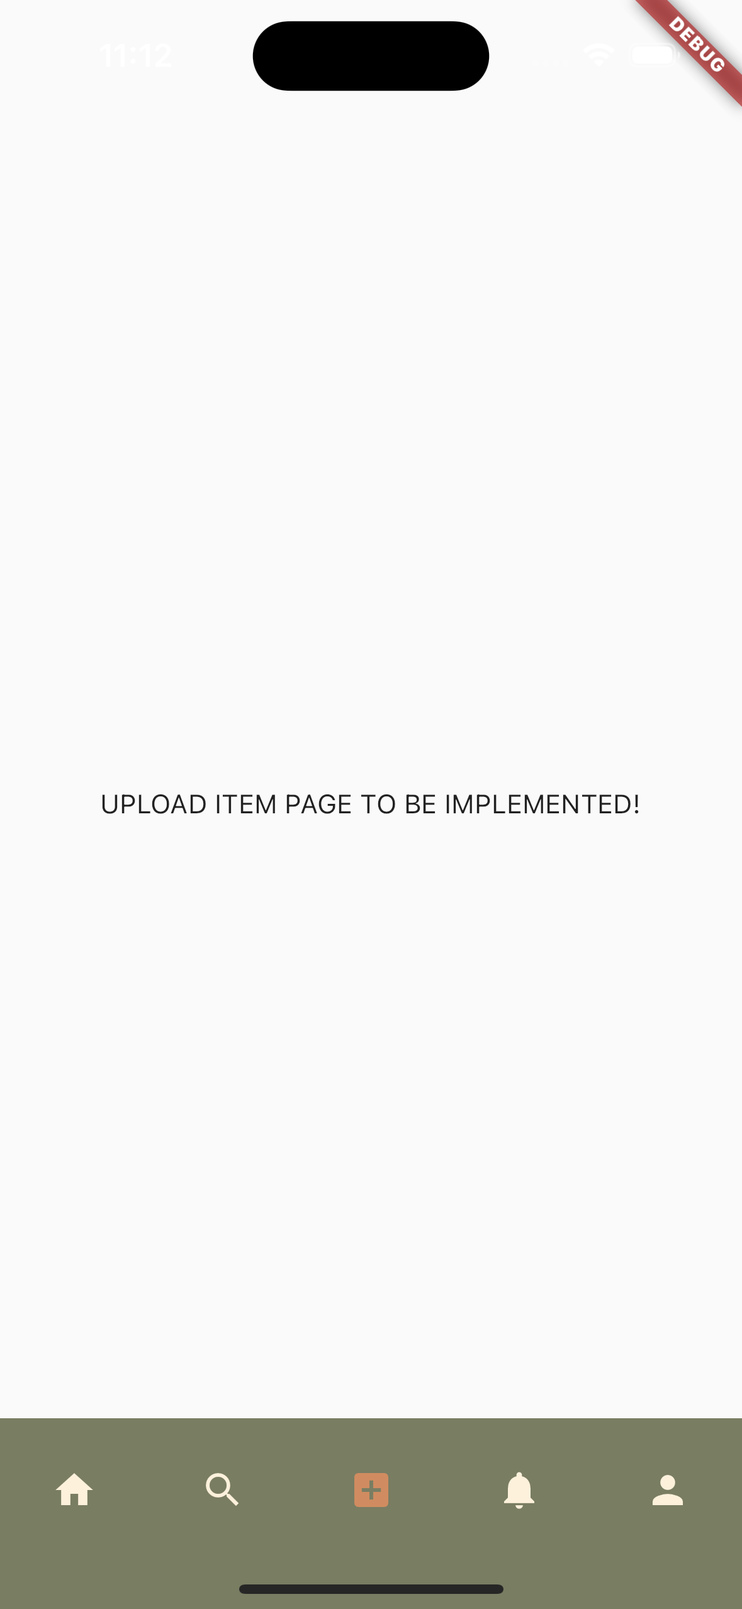
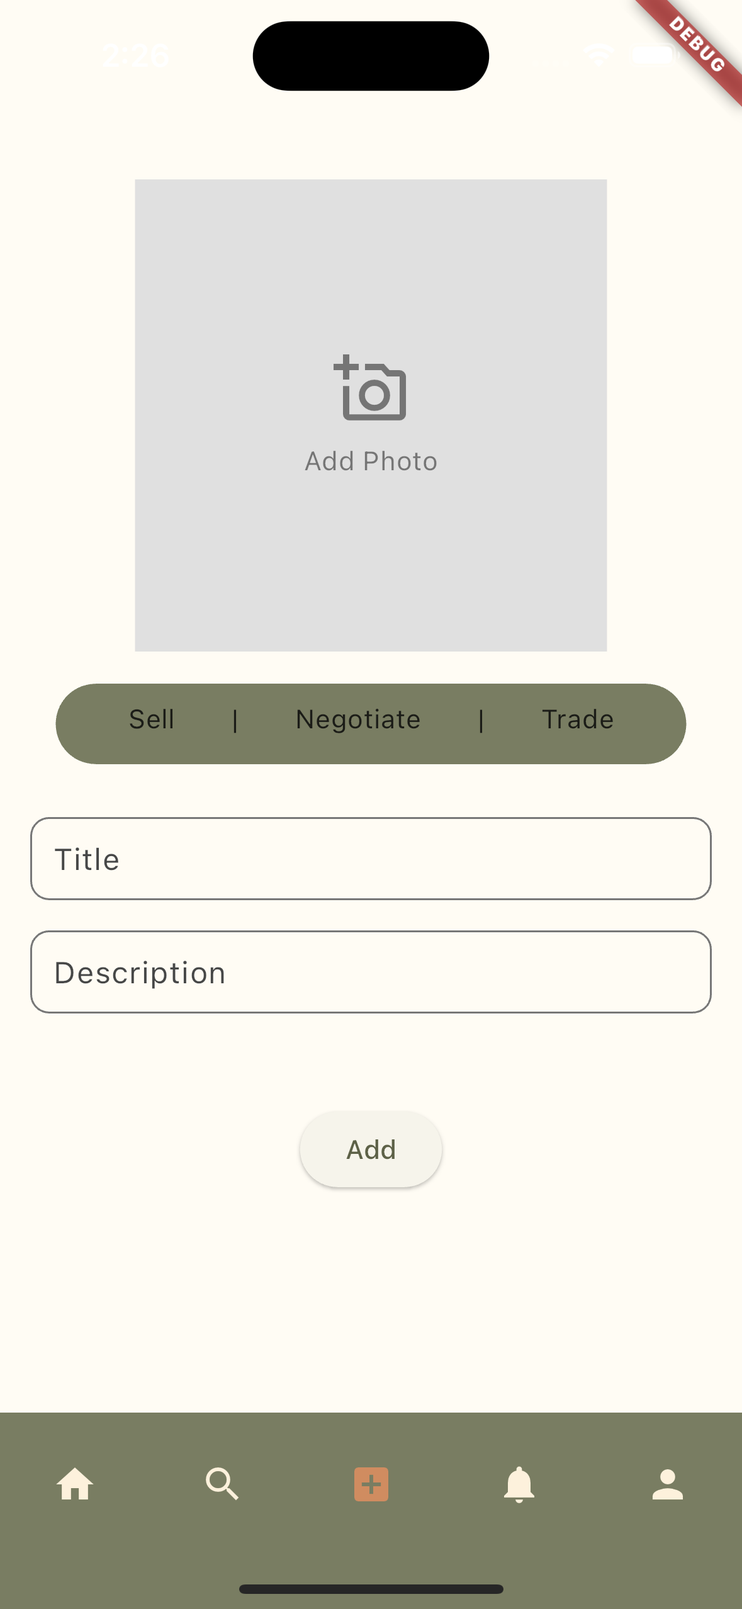
deploy: 32858db8ee58d7b2931a0117d118c43ecb672440

diff --git a/assets/js/1f5929fc.017293e8.js b/assets/js/1f5929fc.017293e8.js
@@ -1,0 +1,1 @@
+"use strict";(self.webpackChunkrndvouz=self.webpackChunkrndvouz||[]).push([[103],{7661:(e,s,n)=>{n.r(s),n.d(s,{assets:()=>m,contentTitle:()=>c,default:()=>g,frontMatter:()=>t,metadata:()=>a,toc:()=>r});var i=n(5893),o=n(1151);const t={sidebar_position:2},c="Usage (Mockup)",a={id:"getting-started/usage",title:"Usage (Mockup)",description:"Login",source:"@site/docs/getting-started/usage.md",sourceDirName:"getting-started",slug:"/getting-started/usage",permalink:"/docs/getting-started/usage",draft:!1,unlisted:!1,tags:[],version:"current",sidebarPosition:2,frontMatter:{sidebar_position:2},sidebar:"docsSidebar",previous:{title:"Installation",permalink:"/docs/getting-started/installation"},next:{title:"Change Log",permalink:"/docs/getting-started/changelog"}},m={},r=[{value:"Login",id:"login",level:3},{value:"Onboarding",id:"onboarding",level:3},{value:"Onboarding (Businesses)",id:"onboarding-businesses",level:3},{value:"Home Screen",id:"home-screen",level:3}];function p(e){const s={h1:"h1",h3:"h3",p:"p",...(0,o.a)(),...e.components};return(0,i.jsxs)(i.Fragment,{children:[(0,i.jsx)(s.h1,{id:"usage-mockup",children:"Usage (Mockup)"}),"\n",(0,i.jsx)(s.h3,{id:"login",children:"Login"}),"\n",(0,i.jsxs)("p",{style:{margin:"2vh 0px 2vh 0px",clear:"both"},children:[(0,i.jsx)("img",{className:"mockup",src:"/img/mockup/login.png"}),(0,i.jsx)(s.p,{children:"As with all mobile apps, you will be asked to sign in and/or register when you download the app. During the sign up process, an email verification step will be requested."})]}),"\n",(0,i.jsx)("div",{style:{clear:"both"}}),"\n",(0,i.jsx)(s.h3,{id:"onboarding",children:"Onboarding"}),"\n",(0,i.jsx)("img",{className:"mockup",src:"/img/mockup/user_type.png"}),"\n",(0,i.jsx)("img",{className:"mockup",src:"/img/mockup/setup_login.png"}),"\n",(0,i.jsx)("img",{className:"mockup",width:"180vw",src:"/img/mockup/setup_profile.png"}),"\n",(0,i.jsx)("img",{className:"mockup",width:"180vw",src:"/img/mockup/setup_swipe.png"}),"\n",(0,i.jsx)("img",{className:"mockup",width:"180vw",src:"/img/mockup/setup_style.png"}),"\n",(0,i.jsx)("img",{className:"mockup",width:"180vw",src:"/img/mockup/setup_size.png"}),"\n",(0,i.jsx)("img",{className:"mockup",width:"180vw",src:"/img/mockup/setup_done.png"}),"\n",(0,i.jsx)("div",{className:"mockup-p",children:(0,i.jsx)(s.p,{children:"There will be an onboarding process that will ask you for your information when you register on our app. Additionally this onboarding process will allow you to get a glimpse of the swipe functionality that is an integral part of our app."})}),"\n",(0,i.jsx)("div",{style:{clear:"both"}}),"\n",(0,i.jsx)(s.h3,{id:"onboarding-businesses",children:"Onboarding (Businesses)"}),"\n",(0,i.jsx)("img",{className:"mockup",src:"/img/mockup/user_type.png"}),"\n",(0,i.jsx)("img",{className:"mockup",src:"/img/mockup/setup_login_b.png"}),"\n",(0,i.jsx)("img",{className:"mockup",width:"180vw",src:"/img/mockup/setup_profile_b.png"}),"\n",(0,i.jsx)("img",{className:"mockup",width:"180vw",src:"/img/mockup/setup_style_b.png"}),"\n",(0,i.jsx)("img",{className:"mockup",width:"180vw",src:"/img/mockup/setup_contact_b.png"}),"\n",(0,i.jsx)("img",{className:"mockup",width:"180vw",src:"/img/mockup/setup_verify_b.png"}),"\n",(0,i.jsx)("img",{className:"mockup",width:"180vw",src:"/img/mockup/setup_done_b.png"}),"\n",(0,i.jsx)("div",{className:"mockup-p",children:(0,i.jsx)(s.p,{children:"There will be a similar onboarding process for businesses who wishes to register for an account on our app, additionally questions will be asked, such as contact information and a page to agree to our term and services."})}),"\n",(0,i.jsx)("div",{style:{clear:"both"}}),"\n",(0,i.jsx)(s.h3,{id:"home-screen",children:"Home Screen"}),"\n",(0,i.jsx)("img",{className:"mockup",width:"180vw",src:"/img/mockup/home.png"}),"\n",(0,i.jsx)("img",{className:"mockup",width:"180vw",src:"/img/mockup/home_swipe.png"}),"\n",(0,i.jsx)("img",{className:"mockup",width:"180vw",src:"/img/mockup/search.png"}),"\n",(0,i.jsx)("img",{className:"mockup",width:"180vw",src:"/img/mockup/filtered_search.png"}),"\n",(0,i.jsx)("img",{className:"mockup",width:"180vw",src:"/img/mockup/upload.png"}),"\n",(0,i.jsx)("img",{className:"mockup",width:"180vw",src:"/img/mockup/msg_list.png"}),"\n",(0,i.jsx)("img",{className:"mockup",width:"180vw",src:"/img/mockup/msg_chat.png"}),"\n",(0,i.jsx)("img",{className:"mockup",width:"180vw",src:"/img/mockup/profile.png"}),"\n",(0,i.jsx)("img",{className:"mockup",width:"180vw",src:"/img/mockup/settings.png"}),"\n",(0,i.jsx)("div",{className:"mockup-p",children:(0,i.jsx)(s.p,{children:"Currently most of the pages for the home screen is implemented, although not all of the functionality of the pages have been implemented yet."})}),"\n",(0,i.jsx)("div",{style:{clear:"both"}})]})}function g(e={}){const{wrapper:s}={...(0,o.a)(),...e.components};return s?(0,i.jsx)(s,{...e,children:(0,i.jsx)(p,{...e})}):p(e)}},1151:(e,s,n)=>{n.d(s,{Z:()=>a,a:()=>c});var i=n(7294);const o={},t=i.createContext(o);function c(e){const s=i.useContext(t);return i.useMemo((function(){return"function"==typeof e?e(s):{...s,...e}}),[s,e])}function a(e){let s;return s=e.disableParentContext?"function"==typeof e.components?e.components(o):e.components||o:c(e.components),i.createElement(t.Provider,{value:s},e.children)}}}]);

diff --git a/assets/js/runtime~main.08a2db70.js b/assets/js/runtime~main.08a2db70.js
@@ -1,0 +1,1 @@
+(()=>{"use strict";var e,a,t,r,f,c={},o={};function d(e){var a=o[e];if(void 0!==a)return a.exports;var t=o[e]={id:e,loaded:!1,exports:{}};return c[e].call(t.exports,t,t.exports,d),t.loaded=!0,t.exports}d.m=c,d.c=o,e=[],d.O=(a,t,r,f)=>{if(!t){var c=1/0;for(i=0;i<e.length;i++){t=e[i][0],r=e[i][1],f=e[i][2];for(var o=!0,n=0;n<t.length;n++)(!1&f||c>=f)&&Object.keys(d.O).every((e=>d.O[e](t[n])))?t.splice(n--,1):(o=!1,f<c&&(c=f));if(o){e.splice(i--,1);var b=r();void 0!==b&&(a=b)}}return a}f=f||0;for(var i=e.length;i>0&&e[i-1][2]>f;i--)e[i]=e[i-1];e[i]=[t,r,f]},d.n=e=>{var a=e&&e.__esModule?()=>e.default:()=>e;return d.d(a,{a:a}),a},t=Object.getPrototypeOf?e=>Object.getPrototypeOf(e):e=>e.__proto__,d.t=function(e,r){if(1&r&&(e=this(e)),8&r)return e;if("object"==typeof e&&e){if(4&r&&e.__esModule)return e;if(16&r&&"function"==typeof e.then)return e}var f=Object.create(null);d.r(f);var c={};a=a||[null,t({}),t([]),t(t)];for(var o=2&r&&e;"object"==typeof o&&!~a.indexOf(o);o=t(o))Object.getOwnPropertyNames(o).forEach((a=>c[a]=()=>e[a]));return c.default=()=>e,d.d(f,c),f},d.d=(e,a)=>{for(var t in a)d.o(a,t)&&!d.o(e,t)&&Object.defineProperty(e,t,{enumerable:!0,get:a[t]})},d.f={},d.e=e=>Promise.all(Object.keys(d.f).reduce(((a,t)=>(d.f[t](e,a),a)),[])),d.u=e=>"assets/js/"+({3:"925b3f96",13:"01a85c17",35:"4c9e35b1",53:"935f2afb",80:"ccc49370",84:"42a49153",85:"1f391b9e",89:"a6aa9e1f",103:"1f5929fc",110:"66406991",152:"54f44165",178:"096bfee4",195:"c4f5d8e4",205:"a80da1cf",267:"59362658",362:"e273c56f",368:"a94703ab",414:"393be207",453:"30a24c52",477:"b2f554cd",514:"73664a40",518:"a7bd4aaa",524:"9e709861",533:"b2b675dd",535:"3d8d21df",608:"9e4087bc",610:"6875c492",631:"814f3328",633:"031793e1",636:"f4f34a3a",642:"7661071f",661:"5e95c892",671:"0e384e19",700:"e16015ca",713:"a7023ddc",794:"dc5b779c",817:"14eb3368",842:"e02db766",848:"e8116f3c",914:"d9f32620",918:"17896441",938:"608ae6a4",948:"8717b14a"}[e]||e)+"."+{3:"e6669d50",13:"6d70bf9b",35:"d2302f9d",53:"38603383",80:"3ff1eb2b",84:"e5a89aac",85:"a63ac61d",89:"3c05e581",103:"017293e8",110:"37b834c8",152:"89e70bfa",178:"4e9e222d",195:"9489579f",196:"778dc07f",205:"738acc9b",267:"37819733",362:"7b285d30",368:"dc961c23",414:"aa9e8ca1",453:"125be435",477:"6c947c28",514:"69f3c15b",518:"8584da7e",524:"c349dcdb",533:"3b34ea61",535:"6fac9f28",608:"f76fe7d6",610:"03fc4916",631:"6312ea9f",633:"a21992bf",636:"f5d3a1aa",642:"91317531",661:"bd70a92c",671:"4b119dae",677:"9ca745b5",700:"52f26d03",713:"32cc75ef",772:"53000ae1",794:"ca716dd4",817:"c1f0fe7e",842:"fffbcd42",848:"952af4d9",914:"0271321a",918:"900d03f5",938:"65d362b4",948:"9f2a81fd"}[e]+".js",d.miniCssF=e=>{},d.g=function(){if("object"==typeof globalThis)return globalThis;try{return this||new Function("return this")()}catch(e){if("object"==typeof window)return window}}(),d.o=(e,a)=>Object.prototype.hasOwnProperty.call(e,a),r={},f="rndvouz:",d.l=(e,a,t,c)=>{if(r[e])r[e].push(a);else{var o,n;if(void 0!==t)for(var b=document.getElementsByTagName("script"),i=0;i<b.length;i++){var u=b[i];if(u.getAttribute("src")==e||u.getAttribute("data-webpack")==f+t){o=u;break}}o||(n=!0,(o=document.createElement("script")).charset="utf-8",o.timeout=120,d.nc&&o.setAttribute("nonce",d.nc),o.setAttribute("data-webpack",f+t),o.src=e),r[e]=[a];var l=(a,t)=>{o.onerror=o.onload=null,clearTimeout(s);var f=r[e];if(delete r[e],o.parentNode&&o.parentNode.removeChild(o),f&&f.forEach((e=>e(t))),a)return a(t)},s=setTimeout(l.bind(null,void 0,{type:"timeout",target:o}),12e4);o.onerror=l.bind(null,o.onerror),o.onload=l.bind(null,o.onload),n&&document.head.appendChild(o)}},d.r=e=>{"undefined"!=typeof Symbol&&Symbol.toStringTag&&Object.defineProperty(e,Symbol.toStringTag,{value:"Module"}),Object.defineProperty(e,"__esModule",{value:!0})},d.p="/",d.gca=function(e){return e={17896441:"918",59362658:"267",66406991:"110","925b3f96":"3","01a85c17":"13","4c9e35b1":"35","935f2afb":"53",ccc49370:"80","42a49153":"84","1f391b9e":"85",a6aa9e1f:"89","1f5929fc":"103","54f44165":"152","096bfee4":"178",c4f5d8e4:"195",a80da1cf:"205",e273c56f:"362",a94703ab:"368","393be207":"414","30a24c52":"453",b2f554cd:"477","73664a40":"514",a7bd4aaa:"518","9e709861":"524",b2b675dd:"533","3d8d21df":"535","9e4087bc":"608","6875c492":"610","814f3328":"631","031793e1":"633",f4f34a3a:"636","7661071f":"642","5e95c892":"661","0e384e19":"671",e16015ca:"700",a7023ddc:"713",dc5b779c:"794","14eb3368":"817",e02db766:"842",e8116f3c:"848",d9f32620:"914","608ae6a4":"938","8717b14a":"948"}[e]||e,d.p+d.u(e)},(()=>{var e={303:0,532:0};d.f.j=(a,t)=>{var r=d.o(e,a)?e[a]:void 0;if(0!==r)if(r)t.push(r[2]);else if(/^(303|532)$/.test(a))e[a]=0;else{var f=new Promise(((t,f)=>r=e[a]=[t,f]));t.push(r[2]=f);var c=d.p+d.u(a),o=new Error;d.l(c,(t=>{if(d.o(e,a)&&(0!==(r=e[a])&&(e[a]=void 0),r)){var f=t&&("load"===t.type?"missing":t.type),c=t&&t.target&&t.target.src;o.message="Loading chunk "+a+" failed.\n("+f+": "+c+")",o.name="ChunkLoadError",o.type=f,o.request=c,r[1](o)}}),"chunk-"+a,a)}},d.O.j=a=>0===e[a];var a=(a,t)=>{var r,f,c=t[0],o=t[1],n=t[2],b=0;if(c.some((a=>0!==e[a]))){for(r in o)d.o(o,r)&&(d.m[r]=o[r]);if(n)var i=n(d)}for(a&&a(t);b<c.length;b++)f=c[b],d.o(e,f)&&e[f]&&e[f][0](),e[f]=0;return d.O(i)},t=self.webpackChunkrndvouz=self.webpackChunkrndvouz||[];t.forEach(a.bind(null,0)),t.push=a.bind(null,t.push.bind(t))})()})();

diff --git a/docs/getting-started/usage.html b/docs/getting-started/usage.html
@@ -5,7 +5,7 @@
 <meta name="generator" content="Docusaurus v3.0.0">
 <title data-rh="true">Usage (Mockup) | RNDVOUZ</title><meta data-rh="true" name="viewport" content="width=device-width,initial-scale=1"><meta data-rh="true" name="twitter:card" content="summary_large_image"><meta data-rh="true" property="og:url" content="https://rndvouz.github.io/docs/getting-started/usage"><meta data-rh="true" property="og:locale" content="en"><meta data-rh="true" name="docusaurus_locale" content="en"><meta data-rh="true" name="docsearch:language" content="en"><meta data-rh="true" name="docusaurus_version" content="current"><meta data-rh="true" name="docusaurus_tag" content="docs-default-current"><meta data-rh="true" name="docsearch:version" content="current"><meta data-rh="true" name="docsearch:docusaurus_tag" content="docs-default-current"><meta data-rh="true" property="og:title" content="Usage (Mockup) | RNDVOUZ"><meta data-rh="true" name="description" content="Login"><meta data-rh="true" property="og:description" content="Login"><link data-rh="true" rel="icon" href="/img/image.png"><link data-rh="true" rel="canonical" href="https://rndvouz.github.io/docs/getting-started/usage"><link data-rh="true" rel="alternate" href="https://rndvouz.github.io/docs/getting-started/usage" hreflang="en"><link data-rh="true" rel="alternate" href="https://rndvouz.github.io/docs/getting-started/usage" hreflang="x-default"><link rel="alternate" type="application/rss+xml" href="/blog/rss.xml" title="RNDVOUZ RSS Feed">
 <link rel="alternate" type="application/atom+xml" href="/blog/atom.xml" title="RNDVOUZ Atom Feed"><link rel="stylesheet" href="/assets/css/styles.4c79cda0.css">
-<script src="/assets/js/runtime~main.9627fd3c.js" defer="defer"></script>
+<script src="/assets/js/runtime~main.08a2db70.js" defer="defer"></script>
 <script src="/assets/js/main.eb5d30f0.js" defer="defer"></script>
 </head>
 <body class="navigation-with-keyboard">
@@ -43,7 +43,7 @@
 <img class="mockup" width="180vw" src="/img/mockup/msg_chat.png">
 <img class="mockup" width="180vw" src="/img/mockup/profile.png">
 <img class="mockup" width="180vw" src="/img/mockup/settings.png">
-<div class="mockup-p"><p>Currently most of the pages for the home screen is implemented, except for the upload item page.</p></div>
+<div class="mockup-p"><p>Currently most of the pages for the home screen is implemented, although not all of the functionality of the pages have been implemented yet.</p></div>
 <div style="clear:both"></div></div></article><nav class="pagination-nav docusaurus-mt-lg" aria-label="Docs pages"><a class="pagination-nav__link pagination-nav__link--prev" href="/docs/getting-started/installation"><div class="pagination-nav__sublabel">Previous</div><div class="pagination-nav__label">Installation</div></a><a class="pagination-nav__link pagination-nav__link--next" href="/docs/getting-started/changelog"><div class="pagination-nav__sublabel">Next</div><div class="pagination-nav__label">Change Log</div></a></nav></div></div><div class="col col--3"><div class="tableOfContents_bqdL thin-scrollbar theme-doc-toc-desktop"><ul class="table-of-contents table-of-contents__left-border"><li><a href="#login" class="table-of-contents__link toc-highlight">Login</a></li><li><a href="#onboarding" class="table-of-contents__link toc-highlight">Onboarding</a></li><li><a href="#onboarding-businesses" class="table-of-contents__link toc-highlight">Onboarding (Businesses)</a></li><li><a href="#home-screen" class="table-of-contents__link toc-highlight">Home Screen</a></li></ul></div></div></div></div></main></div></div></div><footer class="footer footer--dark"><div class="container container-fluid"><div class="footer__links text--center"><div class="footer__links"><a href="https://github.com/orgs/rndvouz/projects/1" target="_blank" rel="noopener noreferrer" class="footer__link-item">Project Board<svg width="13.5" height="13.5" aria-hidden="true" viewBox="0 0 24 24" class="iconExternalLink_nPIU"><path fill="currentColor" d="M21 13v10h-21v-19h12v2h-10v15h17v-8h2zm3-12h-10.988l4.035 4-6.977 7.07 2.828 2.828 6.977-7.07 4.125 4.172v-11z"></path></svg></a><span class="footer__link-separator">·</span><a href="https://github.com/rndvouz/rndvouz.github.io/tree/main" target="_blank" rel="noopener noreferrer" class="footer__link-item">Documentation Repo<svg width="13.5" height="13.5" aria-hidden="true" viewBox="0 0 24 24" class="iconExternalLink_nPIU"><path fill="currentColor" d="M21 13v10h-21v-19h12v2h-10v15h17v-8h2zm3-12h-10.988l4.035 4-6.977 7.07 2.828 2.828 6.977-7.07 4.125 4.172v-11z"></path></svg></a><span class="footer__link-separator">·</span><a class="footer__link-item" href="/docs/about">About Us</a></div></div><div class="footer__bottom text--center"><div class="footer__copyright">Copyright © 2023 RNDVOUZ</div></div></div></footer></div>
 </body>
 </html>

diff --git a/assets/js/42a49153.e5a89aac.js b/assets/js/42a49153.e5a89aac.js
@@ -1,0 +1,1 @@
+"use strict";(self.webpackChunkrndvouz=self.webpackChunkrndvouz||[]).push([[84],{3304:(e,n,s)=>{s.r(n),s.d(n,{assets:()=>a,contentTitle:()=>l,default:()=>c,frontMatter:()=>t,metadata:()=>r,toc:()=>o});var i=s(5893),d=s(1151);const t={sidebar_label:"Change Log",sidebar_position:3},l="Change Log",r={id:"getting-started/changelog",title:"Change Log",description:"---",source:"@site/docs/getting-started/changelog.md",sourceDirName:"getting-started",slug:"/getting-started/changelog",permalink:"/docs/getting-started/changelog",draft:!1,unlisted:!1,tags:[],version:"current",sidebarPosition:3,frontMatter:{sidebar_label:"Change Log",sidebar_position:3},sidebar:"docsSidebar",previous:{title:"Usage (Mockup)",permalink:"/docs/getting-started/usage"},next:{title:"About The Team",permalink:"/docs/about"}},a={},o=[{value:"Phase 5: 2023-10-31",id:"phase-5-2023-10-31",level:2},{value:"Added",id:"added",level:3},{value:"Removed",id:"removed",level:3},{value:"Phase 4: 2023-10-31",id:"phase-4-2023-10-31",level:2},{value:"Added",id:"added-1",level:3},{value:"Phase 3: 2023-10-26",id:"phase-3-2023-10-26",level:2},{value:"Added",id:"added-2",level:3},{value:"Phase 2: 2023-10-18",id:"phase-2-2023-10-18",level:2},{value:"Added",id:"added-3",level:3},{value:"Phase 1: 2023-10-04",id:"phase-1-2023-10-04",level:2}];function h(e){const n={h1:"h1",h2:"h2",h3:"h3",hr:"hr",li:"li",p:"p",ul:"ul",...(0,d.a)(),...e.components};return(0,i.jsxs)(i.Fragment,{children:[(0,i.jsx)(n.h1,{id:"change-log",children:"Change Log"}),"\n",(0,i.jsx)(n.hr,{}),"\n",(0,i.jsx)(n.p,{children:"All notable changes to this app will be documented below."}),"\n",(0,i.jsx)(n.h2,{id:"phase-5-2023-10-31",children:"Phase 5: 2023-10-31"}),"\n",(0,i.jsx)(n.h3,{id:"added",children:"Added"}),"\n",(0,i.jsxs)(n.ul,{children:["\n",(0,i.jsx)(n.li,{children:"Usage of Firebase, Freezed"}),"\n",(0,i.jsx)(n.li,{children:"Email verification when signing up"}),"\n",(0,i.jsx)(n.li,{children:"message list/chat mockup"}),"\n",(0,i.jsx)(n.li,{children:"Item preview page mockup"}),"\n",(0,i.jsx)(n.li,{children:"Resume setup process on app quit"}),"\n",(0,i.jsx)(n.li,{children:"Upload of a profile pic"}),"\n",(0,i.jsx)(n.li,{children:"Upload item page mockup"}),"\n"]}),"\n",(0,i.jsx)(n.h3,{id:"removed",children:"Removed"}),"\n",(0,i.jsxs)(n.ul,{children:["\n",(0,i.jsx)(n.li,{children:"Sign up as business users (temporary)"}),"\n",(0,i.jsx)(n.li,{children:"changing username (might be temporary?)"}),"\n"]}),"\n",(0,i.jsx)(n.h2,{id:"phase-4-2023-10-31",children:"Phase 4: 2023-10-31"}),"\n",(0,i.jsx)(n.h3,{id:"added-1",children:"Added"}),"\n",(0,i.jsxs)(n.ul,{children:["\n",(0,i.jsx)(n.li,{children:"Restructured the project's file structure to adhere to feature-first architecture"}),"\n",(0,i.jsx)(n.li,{children:'Implement "Profile" mockup'}),"\n"]}),"\n",(0,i.jsx)(n.h2,{id:"phase-3-2023-10-26",children:"Phase 3: 2023-10-26"}),"\n",(0,i.jsx)(n.hr,{}),"\n",(0,i.jsx)(n.h3,{id:"added-2",children:"Added"}),"\n",(0,i.jsxs)(n.ul,{children:["\n",(0,i.jsx)(n.li,{children:"Swipe functionality for home browsing page"}),"\n",(0,i.jsx)(n.li,{children:"Input validations on forms"}),"\n",(0,i.jsx)(n.li,{children:"Settings page to change theme mode, and to logout"}),"\n",(0,i.jsx)(n.li,{children:"The use of riverpod"}),"\n"]}),"\n",(0,i.jsx)(n.h2,{id:"phase-2-2023-10-18",children:"Phase 2: 2023-10-18"}),"\n",(0,i.jsx)(n.hr,{}),"\n",(0,i.jsx)(n.h3,{id:"added-3",children:"Added"}),"\n",(0,i.jsxs)(n.ul,{children:["\n",(0,i.jsx)(n.li,{children:"Implemented database structure for users, measurements and items"}),"\n",(0,i.jsx)(n.li,{children:'Implemented "Contact Information" mockup for business users'}),"\n",(0,i.jsx)(n.li,{children:"Updated bottom nav bar to have states"}),"\n",(0,i.jsx)(n.li,{children:'Implemented "browse (scrolling view)" mockup'}),"\n",(0,i.jsx)(n.li,{children:'Implemented "Registration Pending" mockup'}),"\n"]}),"\n",(0,i.jsx)(n.h2,{id:"phase-1-2023-10-04",children:"Phase 1: 2023-10-04"}),"\n",(0,i.jsxs)(n.ul,{children:["\n",(0,i.jsx)(n.li,{children:"Simple mockup pages for the app"}),"\n"]}),"\n",(0,i.jsx)(n.hr,{})]})}function c(e={}){const{wrapper:n}={...(0,d.a)(),...e.components};return n?(0,i.jsx)(n,{...e,children:(0,i.jsx)(h,{...e})}):h(e)}},1151:(e,n,s)=>{s.d(n,{Z:()=>r,a:()=>l});var i=s(7294);const d={},t=i.createContext(d);function l(e){const n=i.useContext(t);return i.useMemo((function(){return"function"==typeof e?e(n):{...n,...e}}),[n,e])}function r(e){let n;return n=e.disableParentContext?"function"==typeof e.components?e.components(d):e.components||d:l(e.components),i.createElement(t.Provider,{value:n},e.children)}}}]);

diff --git a/index.html b/index.html
@@ -5,7 +5,7 @@
 <meta name="generator" content="Docusaurus v3.0.0">
 <title data-rh="true">Hello from RNDVOUZ | RNDVOUZ</title><meta data-rh="true" name="viewport" content="width=device-width,initial-scale=1"><meta data-rh="true" name="twitter:card" content="summary_large_image"><meta data-rh="true" property="og:url" content="https://rndvouz.github.io/"><meta data-rh="true" property="og:locale" content="en"><meta data-rh="true" name="docusaurus_locale" content="en"><meta data-rh="true" name="docusaurus_tag" content="default"><meta data-rh="true" name="docsearch:language" content="en"><meta data-rh="true" name="docsearch:docusaurus_tag" content="default"><meta data-rh="true" property="og:title" content="Hello from RNDVOUZ | RNDVOUZ"><meta data-rh="true" name="description" content="RNDVOUZ is a Flutter-powered mobile application that revolutionizes the way people trade clothes. With a simple swipe interface, users can quickly browse through a curated selection of clothing items from others in their community. Swipe right to express interest, or swipe left to pass on items. When two users mutually like each other&#x27;s clothing, a match is made, enabling them to connect and arrange a convenient swap."><meta data-rh="true" property="og:description" content="RNDVOUZ is a Flutter-powered mobile application that revolutionizes the way people trade clothes. With a simple swipe interface, users can quickly browse through a curated selection of clothing items from others in their community. Swipe right to express interest, or swipe left to pass on items. When two users mutually like each other&#x27;s clothing, a match is made, enabling them to connect and arrange a convenient swap."><link data-rh="true" rel="icon" href="/img/image.png"><link data-rh="true" rel="canonical" href="https://rndvouz.github.io/"><link data-rh="true" rel="alternate" href="https://rndvouz.github.io/" hreflang="en"><link data-rh="true" rel="alternate" href="https://rndvouz.github.io/" hreflang="x-default"><script data-rh="true">function insertBanner(){var n=document.createElement("div");n.id="__docusaurus-base-url-issue-banner-container";n.innerHTML='\n<div id="__docusaurus-base-url-issue-banner" style="border: thick solid red; background-color: rgb(255, 230, 179); margin: 20px; padding: 20px; font-size: 20px;">\n   <p style="font-weight: bold; font-size: 30px;">Your Docusaurus site did not load properly.</p>\n   <p>A very common reason is a wrong site <a href="https://docusaurus.io/docs/docusaurus.config.js/#baseUrl" style="font-weight: bold;">baseUrl configuration</a>.</p>\n   <p>Current configured baseUrl = <span style="font-weight: bold; color: red;">/</span>  (default value)</p>\n   <p>We suggest trying baseUrl = <span id="__docusaurus-base-url-issue-banner-suggestion-container" style="font-weight: bold; color: green;"></span></p>\n</div>\n',document.body.prepend(n);var e=document.getElementById("__docusaurus-base-url-issue-banner-suggestion-container"),s=window.location.pathname,o="/"===s.substr(-1)?s:s+"/";e.innerHTML=o}document.addEventListener("DOMContentLoaded",(function(){void 0===window.docusaurus&&insertBanner()}))</script><link rel="alternate" type="application/rss+xml" href="/blog/rss.xml" title="RNDVOUZ RSS Feed">
 <link rel="alternate" type="application/atom+xml" href="/blog/atom.xml" title="RNDVOUZ Atom Feed"><link rel="stylesheet" href="/assets/css/styles.4c79cda0.css">
-<script src="/assets/js/runtime~main.9627fd3c.js" defer="defer"></script>
+<script src="/assets/js/runtime~main.08a2db70.js" defer="defer"></script>
 <script src="/assets/js/main.eb5d30f0.js" defer="defer"></script>
 </head>
 <body class="navigation-with-keyboard">

diff --git a/assets/js/c4f5d8e4.9489579f.js b/assets/js/c4f5d8e4.9489579f.js
@@ -1,0 +1,1 @@
+"use strict";(self.webpackChunkrndvouz=self.webpackChunkrndvouz||[]).push([[195],{5402:(e,t,s)=>{s.r(t),s.d(t,{default:()=>g});var n=s(7294);function r(e){var t,s,n="";if("string"==typeof e||"number"==typeof e)n+=e;else if("object"==typeof e)if(Array.isArray(e))for(t=0;t<e.length;t++)e[t]&&(s=r(e[t]))&&(n&&(n+=" "),n+=s);else for(t in e)e[t]&&(n&&(n+=" "),n+=t);return n}const i=function(){for(var e,t,s=0,n="";s<arguments.length;)(e=arguments[s++])&&(t=r(e))&&(n&&(n+=" "),n+=t);return n};var o=s(9960),a=s(2263),l=s(7961);const c={features:"features_t9lD",featureSvg:"featureSvg_GfXr"};var h=s(5893);const u=[{title:"Easy to Use",Svg:null,description:(0,h.jsx)(h.Fragment,{children:"With a simple swipe interface, our app allows you to swap clothes with other effortlessly, helping to create a sustainable and cost-effective way to refresh your wardrobe."})},{title:"Join RNDVOUZ",Svg:null,description:(0,h.jsx)(h.Fragment,{children:"Join a vibrant community of style-conscious individuals looking to revamp their closets. Discover new pieces to elevate your personal style."})},{title:"Consign your clothes",Svg:null,description:(0,h.jsx)(h.Fragment,{children:"Easily consign your gently worn clothes with local thrift shops, supporting both your wallet and the environment."})}];function d(e){let{Svg:t,title:s,description:n}=e;return(0,h.jsxs)("div",{className:i("col col--4"),children:[(0,h.jsx)("div",{className:"text--center"}),(0,h.jsxs)("div",{className:"text--center padding-horiz--md",children:[(0,h.jsx)("h3",{children:s}),(0,h.jsx)("p",{children:n})]})]})}function p(){return(0,h.jsx)("section",{className:c.features,children:(0,h.jsx)("div",{className:"container",children:(0,h.jsx)("div",{className:"row",children:u.map(((e,t)=>(0,h.jsx)(d,{...e},t)))})})})}const f={heroBanner:"heroBanner_qdFl",buttons:"buttons_AeoN"},m=e=>{let{text:t,speed:s}=e;const[r,i]=(0,n.useState)(""),[o,a]=(0,n.useState)(0),[l,c]=(0,n.useState)(!1);return(0,n.useEffect)((()=>{let e=0;const n=e=>new Promise((t=>{setTimeout(t,e)}));const r=setInterval((async function(){l?e<t.length?(i((e=>e.slice(0,-1))),e++):(clearInterval(r),await n(1e3),c(!1)):e<t.length?(i(t.slice(0,e)),e++):(clearInterval(r),await n(5e3),c(!0))}),s),o=setInterval((()=>{a((e=>1-e))}),280);return()=>{clearInterval(r),clearInterval(o)}}),[l]),(0,h.jsxs)("span",{children:[r,(0,h.jsx)("span",{className:"cursor",style:{opacity:o},children:"|"})]})};function v(){const{siteConfig:e}=(0,a.Z)();return(0,h.jsx)("header",{className:i("hero",f.heroBanner),style:{flex:"1"},children:(0,h.jsxs)("div",{className:"container",children:[(0,h.jsx)("h1",{className:"hero__title main-title",children:e.title}),(0,h.jsx)("div",{className:"type_container",children:(0,h.jsx)("p",{className:"hero__subtitle sub-title",children:(0,h.jsx)(m,{text:e.tagline,speed:70})})}),(0,h.jsx)("div",{className:f.buttons,children:(0,h.jsx)(o.Z,{className:"button button--lg mybutton",to:"/docs/intro",children:"Get Started!"})})]})})}function g(){const{siteConfig:e}=(0,a.Z)();return(0,h.jsxs)(l.Z,{title:`Hello from ${e.title}`,description:"RNDVOUZ is a Flutter-powered mobile application that revolutionizes the way people trade clothes. With a simple swipe interface, users can quickly browse through a curated selection of clothing items from others in their community. Swipe right to express interest, or swipe left to pass on items. When two users mutually like each other's clothing, a match is made, enabling them to connect and arrange a convenient swap.",children:[(0,h.jsx)(v,{}),(0,h.jsx)(p,{})]})}}}]);

diff --git a/blog/first-blog-post.html b/blog/first-blog-post.html
@@ -5,7 +5,7 @@
 <meta name="generator" content="Docusaurus v3.0.0">
 <title data-rh="true">First Blog Post | RNDVOUZ</title><meta data-rh="true" name="viewport" content="width=device-width,initial-scale=1"><meta data-rh="true" name="twitter:card" content="summary_large_image"><meta data-rh="true" property="og:url" content="https://rndvouz.github.io/blog/first-blog-post"><meta data-rh="true" property="og:locale" content="en"><meta data-rh="true" name="docusaurus_locale" content="en"><meta data-rh="true" name="docusaurus_tag" content="default"><meta data-rh="true" name="docsearch:language" content="en"><meta data-rh="true" name="docsearch:docusaurus_tag" content="default"><meta data-rh="true" property="og:title" content="First Blog Post | RNDVOUZ"><meta data-rh="true" name="description" content="Lorem ipsum dolor sit amet, consectetur adipiscing elit. Pellentesque elementum dignissim ultricies. Fusce rhoncus ipsum tempor eros aliquam consequat. Lorem ipsum dolor sit amet"><meta data-rh="true" property="og:description" content="Lorem ipsum dolor sit amet, consectetur adipiscing elit. Pellentesque elementum dignissim ultricies. Fusce rhoncus ipsum tempor eros aliquam consequat. Lorem ipsum dolor sit amet"><meta data-rh="true" property="og:type" content="article"><meta data-rh="true" property="article:published_time" content="2019-05-28T00:00:00.000Z"><meta data-rh="true" property="article:author" content="https://github.com/wgao19"><meta data-rh="true" property="article:tag" content="hola,docusaurus"><link data-rh="true" rel="icon" href="/img/image.png"><link data-rh="true" rel="canonical" href="https://rndvouz.github.io/blog/first-blog-post"><link data-rh="true" rel="alternate" href="https://rndvouz.github.io/blog/first-blog-post" hreflang="en"><link data-rh="true" rel="alternate" href="https://rndvouz.github.io/blog/first-blog-post" hreflang="x-default"><link rel="alternate" type="application/rss+xml" href="/blog/rss.xml" title="RNDVOUZ RSS Feed">
 <link rel="alternate" type="application/atom+xml" href="/blog/atom.xml" title="RNDVOUZ Atom Feed"><link rel="stylesheet" href="/assets/css/styles.4c79cda0.css">
-<script src="/assets/js/runtime~main.9627fd3c.js" defer="defer"></script>
+<script src="/assets/js/runtime~main.08a2db70.js" defer="defer"></script>
 <script src="/assets/js/main.eb5d30f0.js" defer="defer"></script>
 </head>
 <body class="navigation-with-keyboard">

diff --git a/docs/getting-started/changelog.html b/docs/getting-started/changelog.html
@@ -5,7 +5,7 @@
 <meta name="generator" content="Docusaurus v3.0.0">
 <title data-rh="true">Change Log | RNDVOUZ</title><meta data-rh="true" name="viewport" content="width=device-width,initial-scale=1"><meta data-rh="true" name="twitter:card" content="summary_large_image"><meta data-rh="true" property="og:url" content="https://rndvouz.github.io/docs/getting-started/changelog"><meta data-rh="true" property="og:locale" content="en"><meta data-rh="true" name="docusaurus_locale" content="en"><meta data-rh="true" name="docsearch:language" content="en"><meta data-rh="true" name="docusaurus_version" content="current"><meta data-rh="true" name="docusaurus_tag" content="docs-default-current"><meta data-rh="true" name="docsearch:version" content="current"><meta data-rh="true" name="docsearch:docusaurus_tag" content="docs-default-current"><meta data-rh="true" property="og:title" content="Change Log | RNDVOUZ"><meta data-rh="true" name="description" content="---"><meta data-rh="true" property="og:description" content="---"><link data-rh="true" rel="icon" href="/img/image.png"><link data-rh="true" rel="canonical" href="https://rndvouz.github.io/docs/getting-started/changelog"><link data-rh="true" rel="alternate" href="https://rndvouz.github.io/docs/getting-started/changelog" hreflang="en"><link data-rh="true" rel="alternate" href="https://rndvouz.github.io/docs/getting-started/changelog" hreflang="x-default"><link rel="alternate" type="application/rss+xml" href="/blog/rss.xml" title="RNDVOUZ RSS Feed">
 <link rel="alternate" type="application/atom+xml" href="/blog/atom.xml" title="RNDVOUZ Atom Feed"><link rel="stylesheet" href="/assets/css/styles.4c79cda0.css">
-<script src="/assets/js/runtime~main.9627fd3c.js" defer="defer"></script>
+<script src="/assets/js/runtime~main.08a2db70.js" defer="defer"></script>
 <script src="/assets/js/main.eb5d30f0.js" defer="defer"></script>
 </head>
 <body class="navigation-with-keyboard">
@@ -21,6 +21,7 @@
 <li>Item preview page mockup</li>
 <li>Resume setup process on app quit</li>
 <li>Upload of a profile pic</li>
+<li>Upload item page mockup</li>
 </ul>
 <h3 class="anchor anchorWithStickyNavbar_LWe7" id="removed">Removed<a href="#removed" class="hash-link" aria-label="Direct link to Removed" title="Direct link to Removed"></a></h3>
 <ul>

diff --git a/blog/welcome.html b/blog/welcome.html
@@ -5,7 +5,7 @@
 <meta name="generator" content="Docusaurus v3.0.0">
 <title data-rh="true">Welcome | RNDVOUZ</title><meta data-rh="true" name="viewport" content="width=device-width,initial-scale=1"><meta data-rh="true" name="twitter:card" content="summary_large_image"><meta data-rh="true" property="og:url" content="https://rndvouz.github.io/blog/welcome"><meta data-rh="true" property="og:locale" content="en"><meta data-rh="true" name="docusaurus_locale" content="en"><meta data-rh="true" name="docusaurus_tag" content="default"><meta data-rh="true" name="docsearch:language" content="en"><meta data-rh="true" name="docsearch:docusaurus_tag" content="default"><meta data-rh="true" property="og:title" content="Welcome | RNDVOUZ"><meta data-rh="true" name="description" content="Docusaurus blogging features are powered by the blog plugin."><meta data-rh="true" property="og:description" content="Docusaurus blogging features are powered by the blog plugin."><meta data-rh="true" property="og:type" content="article"><meta data-rh="true" property="article:published_time" content="2021-08-26T00:00:00.000Z"><meta data-rh="true" property="article:author" content="https://sebastienlorber.com,https://github.com/yangshun"><meta data-rh="true" property="article:tag" content="facebook,hello,docusaurus"><link data-rh="true" rel="icon" href="/img/image.png"><link data-rh="true" rel="canonical" href="https://rndvouz.github.io/blog/welcome"><link data-rh="true" rel="alternate" href="https://rndvouz.github.io/blog/welcome" hreflang="en"><link data-rh="true" rel="alternate" href="https://rndvouz.github.io/blog/welcome" hreflang="x-default"><link rel="alternate" type="application/rss+xml" href="/blog/rss.xml" title="RNDVOUZ RSS Feed">
 <link rel="alternate" type="application/atom+xml" href="/blog/atom.xml" title="RNDVOUZ Atom Feed"><link rel="stylesheet" href="/assets/css/styles.4c79cda0.css">
-<script src="/assets/js/runtime~main.9627fd3c.js" defer="defer"></script>
+<script src="/assets/js/runtime~main.08a2db70.js" defer="defer"></script>
 <script src="/assets/js/main.eb5d30f0.js" defer="defer"></script>
 </head>
 <body class="navigation-with-keyboard">

diff --git a/blog/mdx-blog-post.html b/blog/mdx-blog-post.html
@@ -5,7 +5,7 @@
 <meta name="generator" content="Docusaurus v3.0.0">
 <title data-rh="true">MDX Blog Post | RNDVOUZ</title><meta data-rh="true" name="viewport" content="width=device-width,initial-scale=1"><meta data-rh="true" name="twitter:card" content="summary_large_image"><meta data-rh="true" property="og:url" content="https://rndvouz.github.io/blog/mdx-blog-post"><meta data-rh="true" property="og:locale" content="en"><meta data-rh="true" name="docusaurus_locale" content="en"><meta data-rh="true" name="docusaurus_tag" content="default"><meta data-rh="true" name="docsearch:language" content="en"><meta data-rh="true" name="docsearch:docusaurus_tag" content="default"><meta data-rh="true" property="og:title" content="MDX Blog Post | RNDVOUZ"><meta data-rh="true" name="description" content="Blog posts support Docusaurus Markdown features, such as MDX."><meta data-rh="true" property="og:description" content="Blog posts support Docusaurus Markdown features, such as MDX."><meta data-rh="true" property="og:type" content="article"><meta data-rh="true" property="article:published_time" content="2021-08-01T00:00:00.000Z"><meta data-rh="true" property="article:author" content="https://sebastienlorber.com"><meta data-rh="true" property="article:tag" content="docusaurus"><link data-rh="true" rel="icon" href="/img/image.png"><link data-rh="true" rel="canonical" href="https://rndvouz.github.io/blog/mdx-blog-post"><link data-rh="true" rel="alternate" href="https://rndvouz.github.io/blog/mdx-blog-post" hreflang="en"><link data-rh="true" rel="alternate" href="https://rndvouz.github.io/blog/mdx-blog-post" hreflang="x-default"><link rel="alternate" type="application/rss+xml" href="/blog/rss.xml" title="RNDVOUZ RSS Feed">
 <link rel="alternate" type="application/atom+xml" href="/blog/atom.xml" title="RNDVOUZ Atom Feed"><link rel="stylesheet" href="/assets/css/styles.4c79cda0.css">
-<script src="/assets/js/runtime~main.9627fd3c.js" defer="defer"></script>
+<script src="/assets/js/runtime~main.08a2db70.js" defer="defer"></script>
 <script src="/assets/js/main.eb5d30f0.js" defer="defer"></script>
 </head>
 <body class="navigation-with-keyboard">

diff --git a/blog/long-blog-post.html b/blog/long-blog-post.html
@@ -5,7 +5,7 @@
 <meta name="generator" content="Docusaurus v3.0.0">
 <title data-rh="true">Long Blog Post | RNDVOUZ</title><meta data-rh="true" name="viewport" content="width=device-width,initial-scale=1"><meta data-rh="true" name="twitter:card" content="summary_large_image"><meta data-rh="true" property="og:url" content="https://rndvouz.github.io/blog/long-blog-post"><meta data-rh="true" property="og:locale" content="en"><meta data-rh="true" name="docusaurus_locale" content="en"><meta data-rh="true" name="docusaurus_tag" content="default"><meta data-rh="true" name="docsearch:language" content="en"><meta data-rh="true" name="docsearch:docusaurus_tag" content="default"><meta data-rh="true" property="og:title" content="Long Blog Post | RNDVOUZ"><meta data-rh="true" name="description" content="This is the summary of a very long blog post,"><meta data-rh="true" property="og:description" content="This is the summary of a very long blog post,"><meta data-rh="true" property="og:type" content="article"><meta data-rh="true" property="article:published_time" content="2019-05-29T00:00:00.000Z"><meta data-rh="true" property="article:author" content="https://github.com/endiliey"><meta data-rh="true" property="article:tag" content="hello,docusaurus"><link data-rh="true" rel="icon" href="/img/image.png"><link data-rh="true" rel="canonical" href="https://rndvouz.github.io/blog/long-blog-post"><link data-rh="true" rel="alternate" href="https://rndvouz.github.io/blog/long-blog-post" hreflang="en"><link data-rh="true" rel="alternate" href="https://rndvouz.github.io/blog/long-blog-post" hreflang="x-default"><link rel="alternate" type="application/rss+xml" href="/blog/rss.xml" title="RNDVOUZ RSS Feed">
 <link rel="alternate" type="application/atom+xml" href="/blog/atom.xml" title="RNDVOUZ Atom Feed"><link rel="stylesheet" href="/assets/css/styles.4c79cda0.css">
-<script src="/assets/js/runtime~main.9627fd3c.js" defer="defer"></script>
+<script src="/assets/js/runtime~main.08a2db70.js" defer="defer"></script>
 <script src="/assets/js/main.eb5d30f0.js" defer="defer"></script>
 </head>
 <body class="navigation-with-keyboard">

diff --git a/docs/category/getting-started.html b/docs/category/getting-started.html
@@ -5,7 +5,7 @@
 <meta name="generator" content="Docusaurus v3.0.0">
 <title data-rh="true">Getting Started | RNDVOUZ</title><meta data-rh="true" name="viewport" content="width=device-width,initial-scale=1"><meta data-rh="true" name="twitter:card" content="summary_large_image"><meta data-rh="true" property="og:url" content="https://rndvouz.github.io/docs/category/getting-started"><meta data-rh="true" property="og:locale" content="en"><meta data-rh="true" name="docusaurus_locale" content="en"><meta data-rh="true" name="docsearch:language" content="en"><meta data-rh="true" name="docusaurus_version" content="current"><meta data-rh="true" name="docusaurus_tag" content="docs-default-current"><meta data-rh="true" name="docsearch:version" content="current"><meta data-rh="true" name="docsearch:docusaurus_tag" content="docs-default-current"><meta data-rh="true" property="og:title" content="Getting Started | RNDVOUZ"><meta data-rh="true" name="description" content="Basics of how to get started using the app"><meta data-rh="true" property="og:description" content="Basics of how to get started using the app"><link data-rh="true" rel="icon" href="/img/image.png"><link data-rh="true" rel="canonical" href="https://rndvouz.github.io/docs/category/getting-started"><link data-rh="true" rel="alternate" href="https://rndvouz.github.io/docs/category/getting-started" hreflang="en"><link data-rh="true" rel="alternate" href="https://rndvouz.github.io/docs/category/getting-started" hreflang="x-default"><link rel="alternate" type="application/rss+xml" href="/blog/rss.xml" title="RNDVOUZ RSS Feed">
 <link rel="alternate" type="application/atom+xml" href="/blog/atom.xml" title="RNDVOUZ Atom Feed"><link rel="stylesheet" href="/assets/css/styles.4c79cda0.css">
-<script src="/assets/js/runtime~main.9627fd3c.js" defer="defer"></script>
+<script src="/assets/js/runtime~main.08a2db70.js" defer="defer"></script>
 <script src="/assets/js/main.eb5d30f0.js" defer="defer"></script>
 </head>
 <body class="navigation-with-keyboard">
